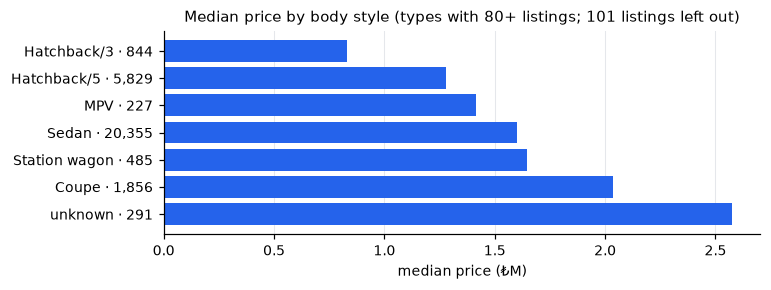
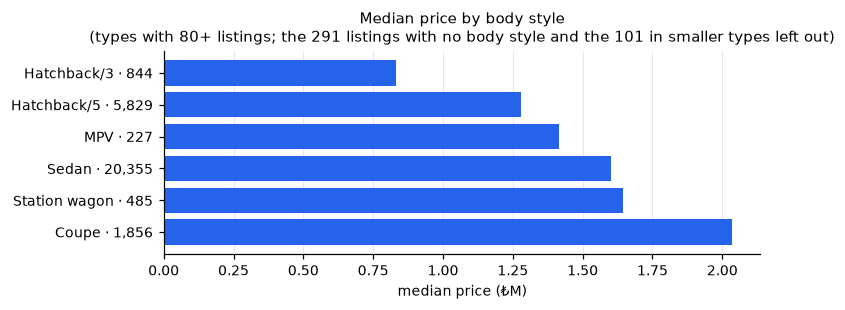
Figure 01: listings with no body style counted in the title, not drawn as a body type; backlog note on em dashes

Changed region(s): [[0.0, 0.031, 0.9961, 0.9621]]

diff --git a/builders/report_lib/report_common.py b/builders/report_lib/report_common.py
@@ -363,15 +363,24 @@ def build_figures(d, v, lang, only=None):
 
     # 01 kasa tipine gore medyan  [TEKNIK]
     if want(1):
-        rows = dom["body_median"]
         # Ureticide en az 80 ilanli kasa tipleri tutuluyor; disarida kalan sayi ve her cubugun n'i yazilir.
-        _n01 = v["n_dedup"] - sum(int(r[2]) for r in rows)
-        t = L(f"Kasa tipine göre medyan fiyat (en az 80 ilanlı tipler; {num(_n01, lang)} ilan dışarıda)",
-              f"Median price by body style (types with 80+ listings; {num(_n01, lang)} listings left out)")
-        reg(1, bar(f"{p}-01-body-median", [(L("bilinmiyor", "unknown") if r[0] == "missing" else r[0])
-                                           + f" · {num(int(r[2]), lang)}" for r in rows],
+        # 2026-09-26 (kullanici): sitenin kasa tipi vermedigi ilanlar (missing) cubuk degil, basliktaki sayi:
+        # gercek bir kasa tipi degiller, karisik modellerden gelip "en pahali tip" gibi okunuyorlardi.
+        _unk01 = [r for r in dom["body_median"] if r[0] == "missing"]
+        assert len(_unk01) == 1, f"baslik kasa tipi verilmeyen ilanlari sayiyor: {len(_unk01)} satir"
+        rows = [r for r in dom["body_median"] if r[0] != "missing"]
+        _nu01 = int(_unk01[0][2])
+        _n01 = v["n_dedup"] - _nu01 - sum(int(r[2]) for r in rows)
+        _head01 = L("Kasa tipine göre medyan fiyat", "Median price by body style")
+        _note01 = L(f"en az 80 ilanlı tipler; kasa tipi verilmeyen {num(_nu01, lang)} ve daha az ilanlı tiplerdeki "
+                    f"{num(_n01, lang)} ilan dışarıda",
+                    f"types with 80+ listings; the {num(_nu01, lang)} listings with no body style and the "
+                    f"{num(_n01, lang)} in smaller types left out")
+        t = f"{_head01} ({_note01})"
+        # Grafigin icinde baslik iki satir (uzun not gorseli genisletiyordu); rapordaki gorsel adi tek satir.
+        reg(1, bar(f"{p}-01-body-median", [r[0] + f" · {num(int(r[2]), lang)}" for r in rows],
                    [r[1] / 1e6 for r in rows],
-                   t, L("medyan fiyat (₺M)", "median price (₺M)"), horizontal=True), t)
+                   f"{_head01}\n({_note01})", L("medyan fiyat (₺M)", "median price (₺M)"), horizontal=True), t)
 
     # 02 (segmente gore medyan) 2026-09-22'de cikti: karar notundaki kume bolumuyle birlikte
     # gitti, teknik rapor onu hic kullanmiyordu. Segment kirilimi teknik §5'te duruyor.

diff --git a/reports/technical.tr.md b/reports/technical.tr.md
@@ -209,7 +209,7 @@ Ham fiyat sağa çarpık (çarpıklık 1.62); log dönüşümü simetriğe yakla
 
 ![Fiyat histogramı — tüm veri (kesikli çizgi = medyan)](figures/tr-25-price-hist.png)
 
-![Kasa tipine göre medyan fiyat (en az 80 ilanlı tipler; 101 ilan dışarıda)](figures/tr-01-body-median.png)
+![Kasa tipine göre medyan fiyat (en az 80 ilanlı tipler; kasa tipi verilmeyen 291 ve daha az ilanlı tiplerdeki 101 ilan dışarıda)](figures/tr-01-body-median.png)
 
 ## 5. Piyasa yapısı — segmentasyon (KMeans + PCA)
 

diff --git a/reports/technical.en.md b/reports/technical.en.md
@@ -209,7 +209,7 @@ Raw price is right-skewed (skew 1.62); a log transform pulls it toward symmetry 
 
 ![Price histogram — all data (dashed line = median)](figures/en-25-price-hist.png)
 
-![Median price by body style (types with 80+ listings; 101 listings left out)](figures/en-01-body-median.png)
+![Median price by body style (types with 80+ listings; the 291 listings with no body style and the 101 in smaller types left out)](figures/en-01-body-median.png)
 
 ## 5. Market structure — segmentation (KMeans + PCA)
 
